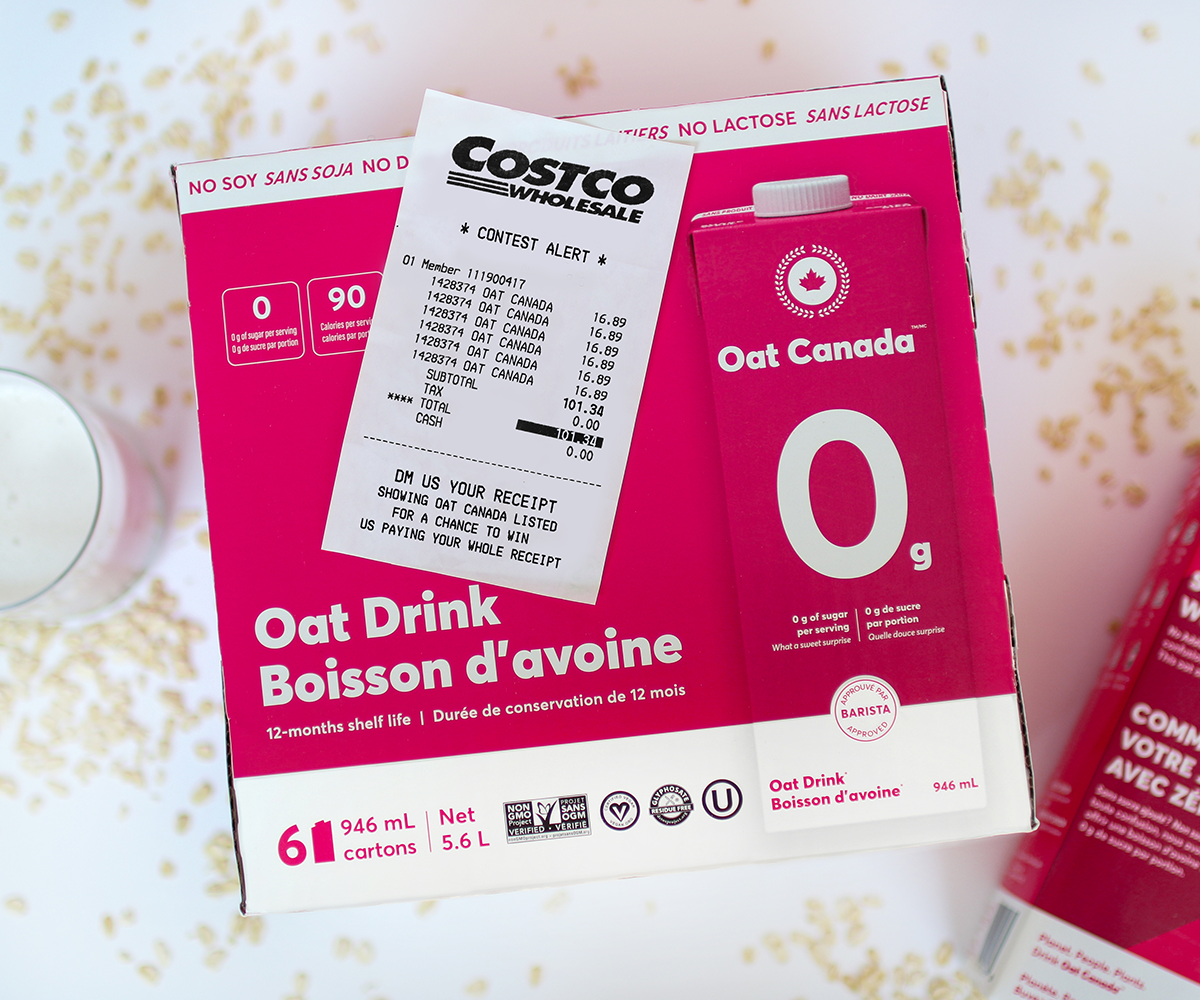
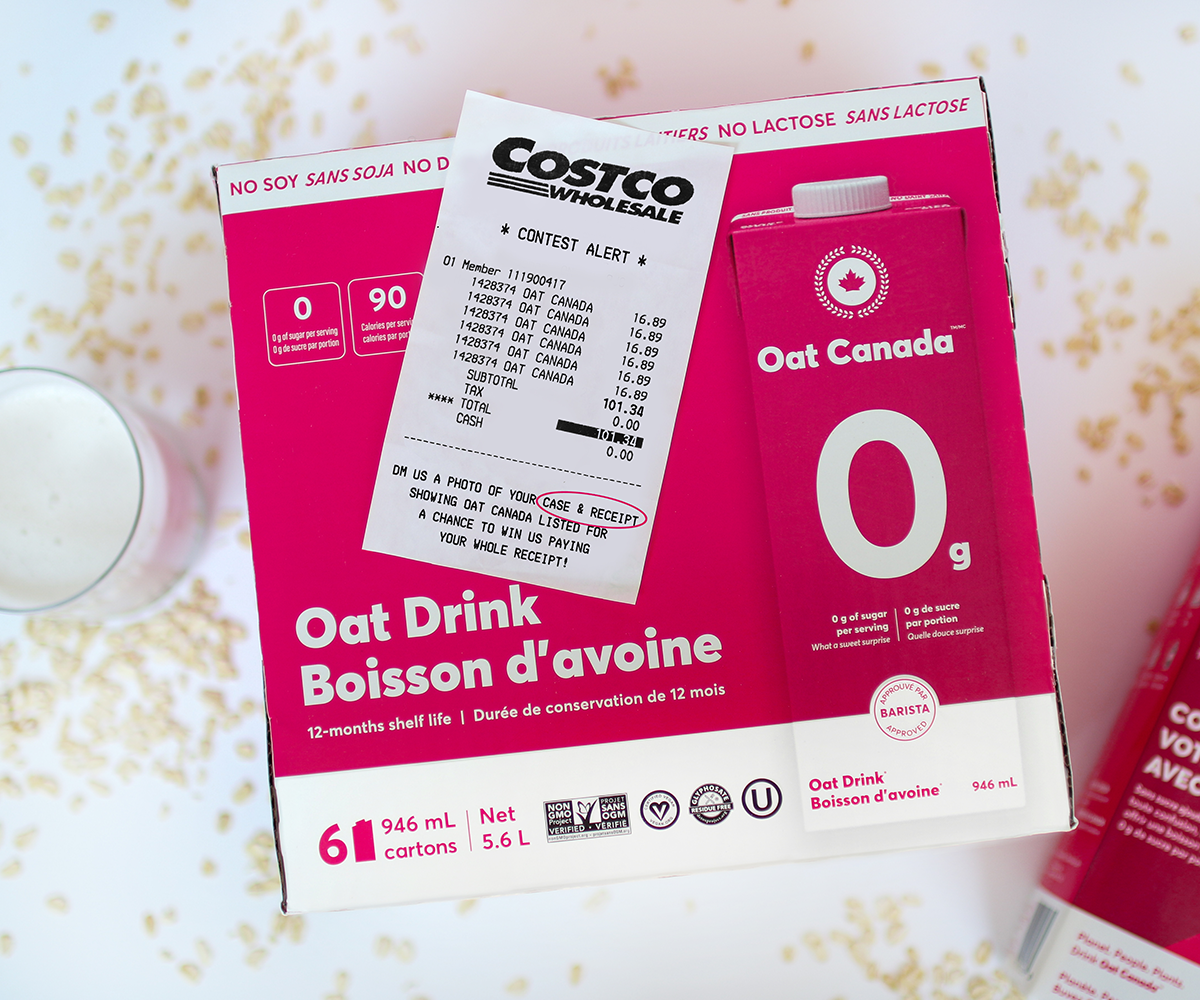
contest

diff --git a/index.html b/index.html
@@ -436,7 +436,7 @@
 
     <!--====== TESTIMONIAL PART ENDS ======-->
 
-    <!--====== CONTEST START ======
+    <!--====== CONTEST START ====== -->
 
     <section id="about" class="about-area pb-150">
         <div class="container">
@@ -452,11 +452,11 @@
                             <a class="main-btn" href="#"><span>27</span> Years Experience</a>
                         </div>
                         -->
-    <!--
+<!--
                         <div class="single-image image-tow float-right">
                             <img src="assets/images/about/about-2.png" alt="About">
                         </div>
-                      
+                      -->
                     </div>
                  
                 </div>
@@ -464,13 +464,17 @@
                     <div class="about-content mt-45">
                         <h4 class="about-welcome">INSTAGRAM CONTEST AlERT</h4>
                         <h3 class="about-title mt-10">Enter for a chance to win</h3>
-                        <p class="mt-25">In celebration of our recent launch into Costco we're holding a contest! DM us your Costco receipt on Instagram showing Oat Canada listed for a chance to win us <b>PAYING</b> your <b>WHOLE RECEIPT</b>.</p>
+                        <p class="mt-25">MOOOVE OVER DAIRY. Our 0g of sugar oat milk is now available at Costco in packs of 6. Oat Canada is helping the planet by fuelling people with oats 🌾. We create nutritious food & beverage solutions that take out the stress of building healthy habits.
+                        
+                        <br> <br>
+                        
+                        In celebration of our recent launch into Costco we're holding a contest! DM us a photo of your case AND Costco receipt showing Oat Canada listed for a chance to win us <b>PAYING</b> your <b>WHOLE RECEIPT</b>.</p>
                         <br>
                         
                         <ul>
                         
                         <li>HOW TO ENTER:</li>
-                        <li>1. DM us your receipt on Instagram</li>
+                        <li>1. DM us a photo of you case AND receipt on Instagram</li>
                         <li>2. Make sure you're also following us</li>
                         <li>3. Like our post!</li>
                         <br>
